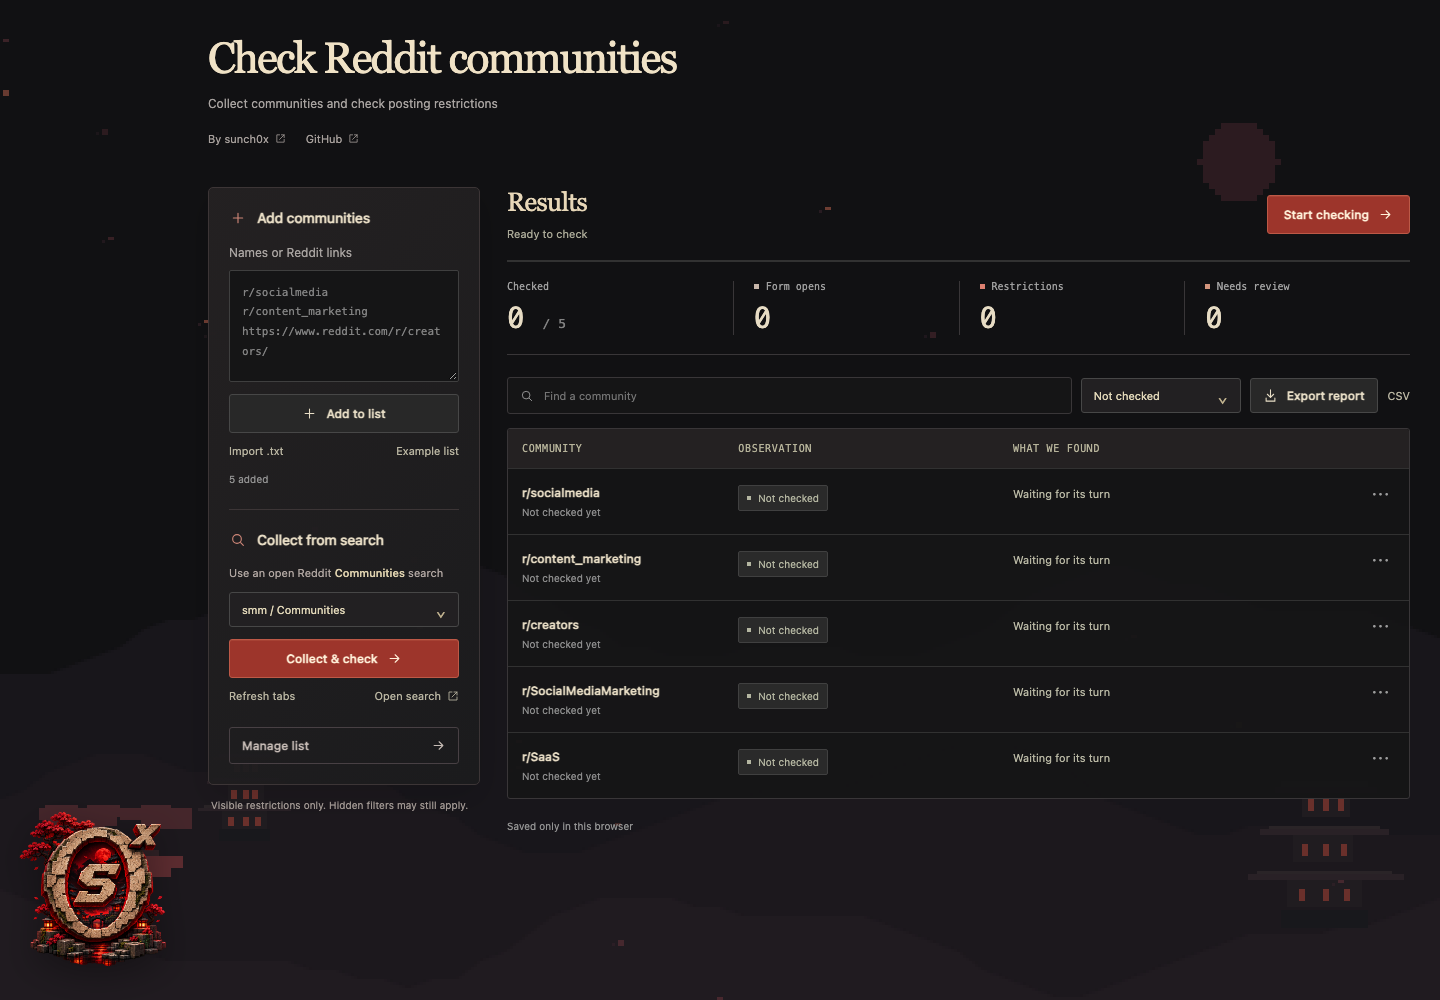
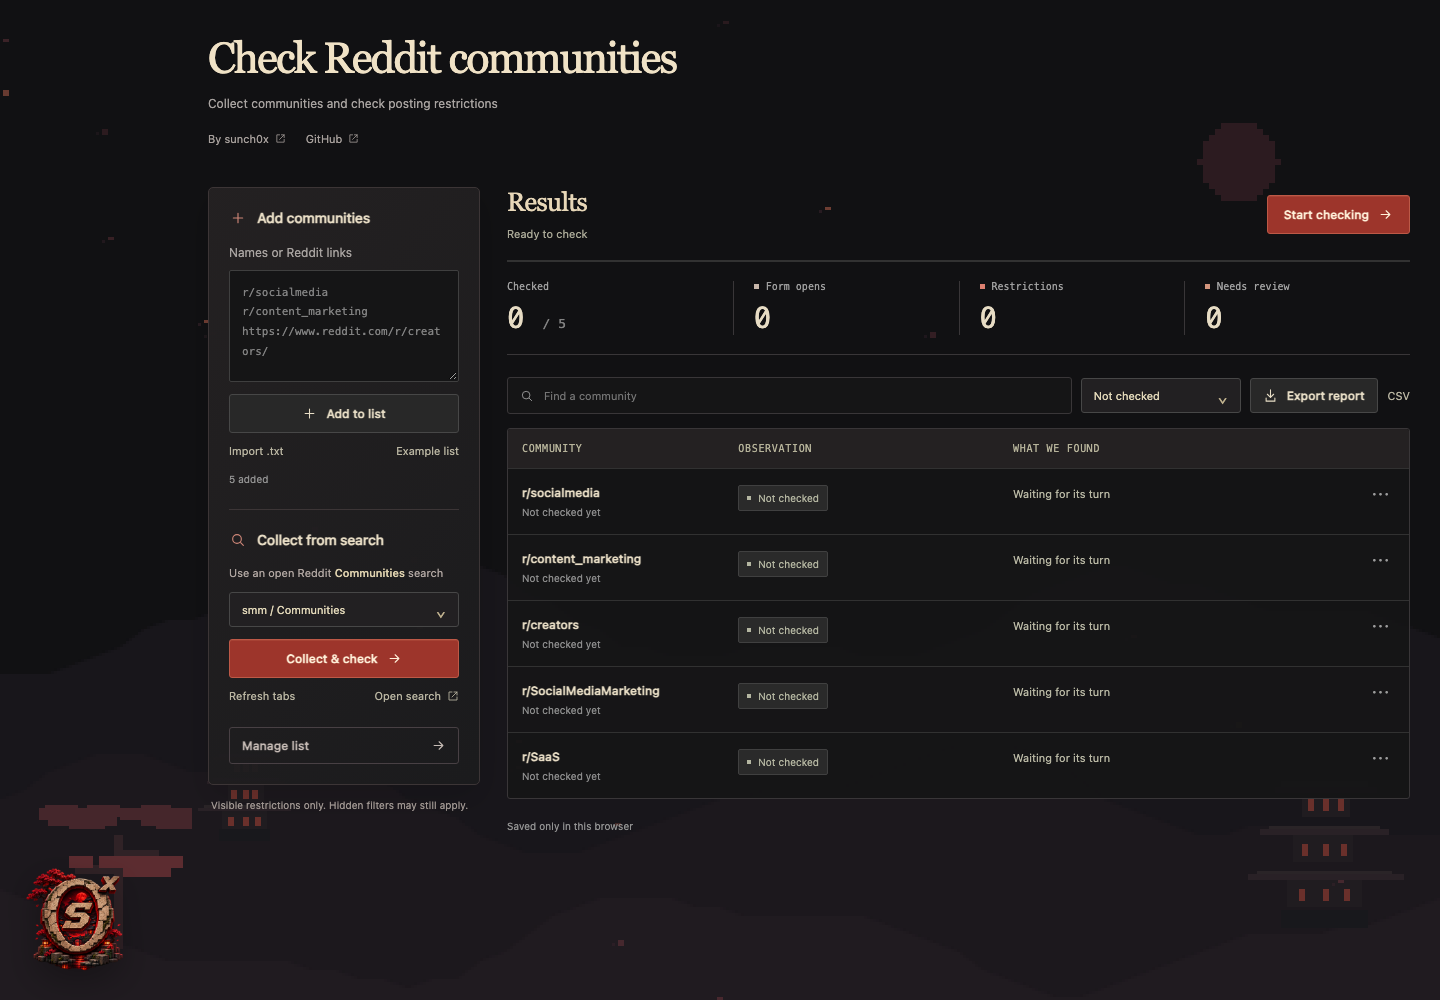
Reduce fixed emblem size across breakpoints

Changed region(s): [[0.0, 0.806, 0.125, 0.992]]

diff --git a/extension/style.css b/extension/style.css
@@ -28,3 +28,5 @@ body{background:#111113}#ambient-world{position:fixed;inset:0;width:100%;height:
 @media(max-width:900px){.app{margin-left:80px;padding-left:8px;padding-right:18px}.creator-emblem{left:7px;width:65px;height:80px}.workspace{grid-template-columns:1fr}.intro{padding-top:28px}.intro h1{font-size:36px}.sidebar-panel{max-width:none}.summary{gap:0}}
 @media(max-width:760px){.app{margin-left:52px;padding-left:8px;padding-right:14px;padding-bottom:20px}.creator-emblem{left:4px;bottom:14px;width:44px;height:56px}.intro{padding:25px 0 18px;margin-bottom:10px;min-height:0}.intro h1{font-size:31px;line-height:1.12}.intro p{font-size:11px}.workspace{gap:20px}.scan-bar{flex-wrap:wrap}.run-actions{margin-left:auto}.summary{grid-template-columns:repeat(2,minmax(0,1fr));gap:17px 0}.metric:nth-child(3){padding-left:0;border-left:0}.table-tools .select-trigger{min-width:140px;max-width:none;flex:1}.search{flex-basis:100%;min-width:0}.export-actions{margin-left:0}.sidebar-panel{padding:15px}.scope-note{font-size:10px}}
 @media(prefers-reduced-motion:reduce){.creator-emblem,.results,.intro-copy,.select-options{animation:none!important}.button:hover,.button:active,.project-links a:hover{transform:none!important}}
+
+.creator-emblem{left:24px;width:108px;height:120px}@media(max-width:1200px){.creator-emblem{left:15px;width:62px;height:74px}}@media(max-width:900px){.creator-emblem{left:12px;width:46px;height:57px}}@media(max-width:760px){.creator-emblem{left:8px;width:30px;height:39px}}
